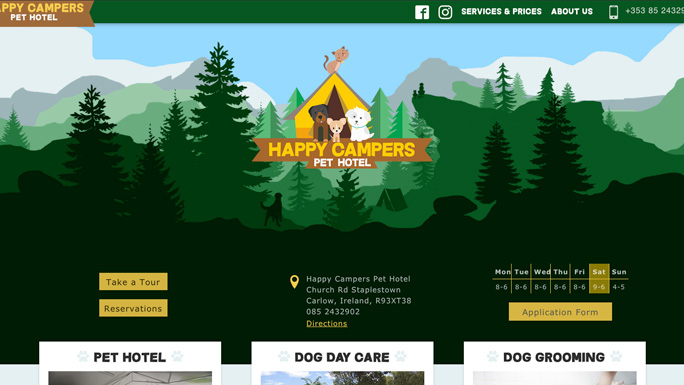
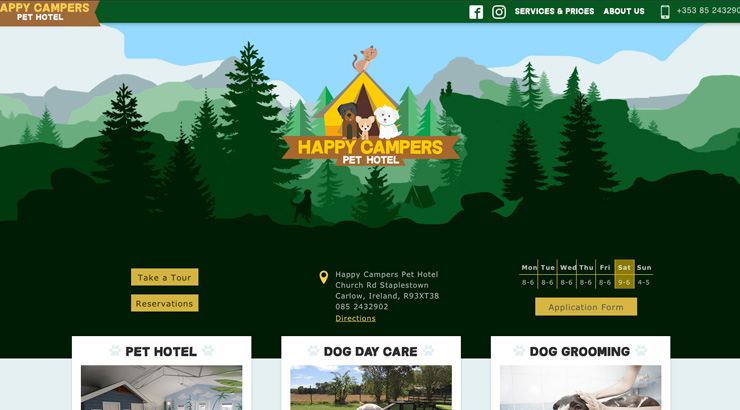
removed site container

diff --git a/index.html b/index.html
@@ -15,7 +15,7 @@
     <div class="hud__corner"></div>
     <div class="hud__corner"></div>
   </div>
-  <div class="l-container">
+  <section class="l-section l-section--header">
     <a class="c-logo h-nolink" href="/">corbin becker:<span class="c-logo__caret">_</span></a>
     <header class="c-header">
       <div class="l-grid">
@@ -77,83 +77,90 @@
         </div>
       </div>
     </header>
-    <section class="l-section">
-      <h2><span class="highlight__solid"><span class="highlight__solid__inner">Skills</span></span></h2>
+  </section>
+  <section class="l-section">
+    <h2><span class="highlight__solid"><span class="highlight__solid__inner">Skills</span></span></h2>
 
-      <div class="l-grid l-skills">
-        <div class="l-grid__grid-item">
+    <div class="l-grid l-skills">
+      <div class="l-grid__grid-item">
 
-            <h3>:Languages_</h3>
-            <ul class="list">
-              <li class="list__item">Javascript</li>
-              <li class="list__item">Solidity</li>
-              <li class="list__item">HTML5</li>
-              <li class="list__item">CSS3</li>
-              <li class="list__item">Sass</li>
-              <li class="list__item">PHP</li>
-            </ul>
+          <h3>:Languages_</h3>
+          <ul class="list">
+            <li class="list__item">Javascript</li>
+            <li class="list__item">Solidity</li>
+            <li class="list__item">HTML5</li>
+            <li class="list__item">CSS3</li>
+            <li class="list__item">Sass</li>
+            <li class="list__item">PHP</li>
+          </ul>
 
-            <h3>:Frameworks_</h3>
-            <ul class="list">
-              <li class="list__item">React</li>
-              <li class="list__item">Express</li>
-              <li class="list__item">Mocha</li>
-            </ul>
-          
-        </div>
-        <div class="l-grid__grid-item">
-          <h3>:Tools_</h3>
+          <h3>:Frameworks_</h3>
           <ul class="list">
-            <li class="list__item">Grunt</li>
-            <li class="list__item">Gulp</li>
-            <li class="list__item">Webpack</li>
-            <li class="list__item">Babel</li>
-            <li class="list__item">VS Code</li>
-            <li class="list__item">Photoshop</li>
+            <li class="list__item">React</li>
+            <li class="list__item">Express</li>
+            <li class="list__item">Mocha</li>
           </ul>
-          <h3>:etc_</h3>
-          <ul class="list">
-            <li class="list__item">NODE</li>
-            <li class="list__item">Git</li>
-            <li class="list__item">REST API's</li>
-            <li class="list__item">Bootstrap</li>
-            <li class="list__item">MongoDB</li>
-          </ul>
-        </div>
-        <div class="l-grid__grid-item">
-          <h3>:Libraries_</h3>
-          <ul class="list">
-            <li class="list__item">Web3.js</li>
-            <li class="list__item">GSAP</li>
-            <li class="list__item">Bootstrap</li>
-            <li class="list__item">Doubleclick</li>
-            <li class="list__item">Pug</li>
-            <li class="list__item">Mongoose</li>
-          </ul>
-        </div>
+        
       </div>
-    </section>
-    <section class="l-section">
-        <h2><span class="highlight__solid"><span class="highlight__solid__inner">Work</span></span></h2>
-        <ul class="l-work">
-          <li>
-            <img src="images/work_images/happy_campers.jpg" alt="happy campers pet hotel screenshot">
-          </li>
-          <li>
-            <img src="images/work_images/happy_campers.jpg" alt="happy campers pet hotel screenshot">
-          </li>
-          <li>
-            <img src="images/work_images/happy_campers.jpg" alt="happy campers pet hotel screenshot">
-          </li>
-          <li>
-            <img src="images/work_images/happy_campers.jpg" alt="happy campers pet hotel screenshot">
-          </li>
-          <li>
-            <img src="images/work_images/happy_campers.jpg" alt="happy campers pet hotel screenshot">
-          </li>
+      <div class="l-grid__grid-item">
+        <h3>:Tools_</h3>
+        <ul class="list">
+          <li class="list__item">Grunt</li>
+          <li class="list__item">Gulp</li>
+          <li class="list__item">Webpack</li>
+          <li class="list__item">Babel</li>
+          <li class="list__item">VS Code</li>
+          <li class="list__item">Photoshop</li>
         </ul>
-    </section>
-  </div>
+        <h3>:etc_</h3>
+        <ul class="list">
+          <li class="list__item">NODE</li>
+          <li class="list__item">Git</li>
+          <li class="list__item">REST API's</li>
+          <li class="list__item">Bootstrap</li>
+          <li class="list__item">MongoDB</li>
+        </ul>
+      </div>
+      <div class="l-grid__grid-item">
+        <h3>:Libraries_</h3>
+        <ul class="list">
+          <li class="list__item">Web3.js</li>
+          <li class="list__item">GSAP</li>
+          <li class="list__item">Bootstrap</li>
+          <li class="list__item">Doubleclick</li>
+          <li class="list__item">Pug</li>
+          <li class="list__item">Mongoose</li>
+        </ul>
+      </div>
+    </div>
+  </section>
+  <section class="l-section">
+      <h2><span class="highlight__solid"><span class="highlight__solid__inner">Work</span></span></h2>
+      <ul class="l-work">
+        <li>
+          <img src="images/work_images/happy_campers.jpg" alt="happy campers pet hotel screenshot" />
+          <div class="c-work">
+            <h3>Happy Campers</h3>
+          </div>
+        </li>
+        <li>
+          <img src="images/work_images/happy_campers.jpg" alt="happy campers pet hotel screenshot">
+          <div class="c-work"></div>
+        </li>
+        <li>
+          <img src="images/work_images/happy_campers.jpg" alt="happy campers pet hotel screenshot">
+          <div class="c-work"></div>
+        </li>
+        <li>
+          <img src="images/work_images/happy_campers.jpg" alt="happy campers pet hotel screenshot">
+          <div class="c-work"></div>
+        </li>
+        <li>
+          <img src="images/work_images/happy_campers.jpg" alt="happy campers pet hotel screenshot">
+          <div class="c-work"></div>
+        </li>
+      </ul>
+  </section>
   
 </body>
 <script src="main.js"></script>

diff --git a/styles/portfolio-grid.css b/styles/portfolio-grid.css
@@ -2,7 +2,7 @@
   list-style-type: none;
   display: grid;
   grid-template-columns: 1fr 1fr 1fr;
-  grid-template-rows: repeat(2, minmax(198px, auto));
+  grid-template-rows: repeat(2, minmax(190px, 190px));
   grid-gap: var(--space);
   padding: 0;
 }
@@ -10,4 +10,33 @@
 .l-work li:first-child{
   grid-column: 1;
   grid-row: 1/span 2;
+}
+.l-work li:first-child img{
+  left: -100%;
+}
+.l-work li{
+  position: relative;
+  overflow: hidden;
+}
+
+.l-work li img{
+  position: relative;
+  width: auto;
+  max-width: none;
+  max-height: 100%;
+}
+
+.c-work{
+  position: absolute;
+  top: 0;
+  background-color: var(--dark-blue-trans);
+  width: 100%;
+  height: 100%;
+  padding: 20px;
+}
+
+.c-work h3{
+  font-family: 'Cousine', monospace;
+  font-size: 2rem;
+  color: white;
 }

diff --git a/styles/main.css b/styles/main.css
@@ -9,6 +9,7 @@
   --aqua: #00f0ff;
   --yellow: #fcee0a;
   --aqua-light: rgba(0,240,255, 0.3);
+  --dark-blue-trans: rgba(7,30,38, 0.6);
 }
 
 * , *:before, *:after{ 
@@ -40,6 +41,7 @@ h3{
 
 img{
   max-width: 100%;
+  height: auto;
 }
 
 .l-container {
@@ -75,6 +77,10 @@ img{
 }
 
 .l-section{
+  /* position: relative; */
+  max-width: 1300px;
+  padding: 0 var(--space);
+  margin: 0 auto;
   margin-top: var(--spaceXL);
 }
 

diff --git a/styles/header.css b/styles/header.css
@@ -1,3 +1,7 @@
+.l-section--header{
+  margin-top: var(--spaceXL);
+}
+
 .c-header{
   margin-top: var(--spaceXL);
 }
